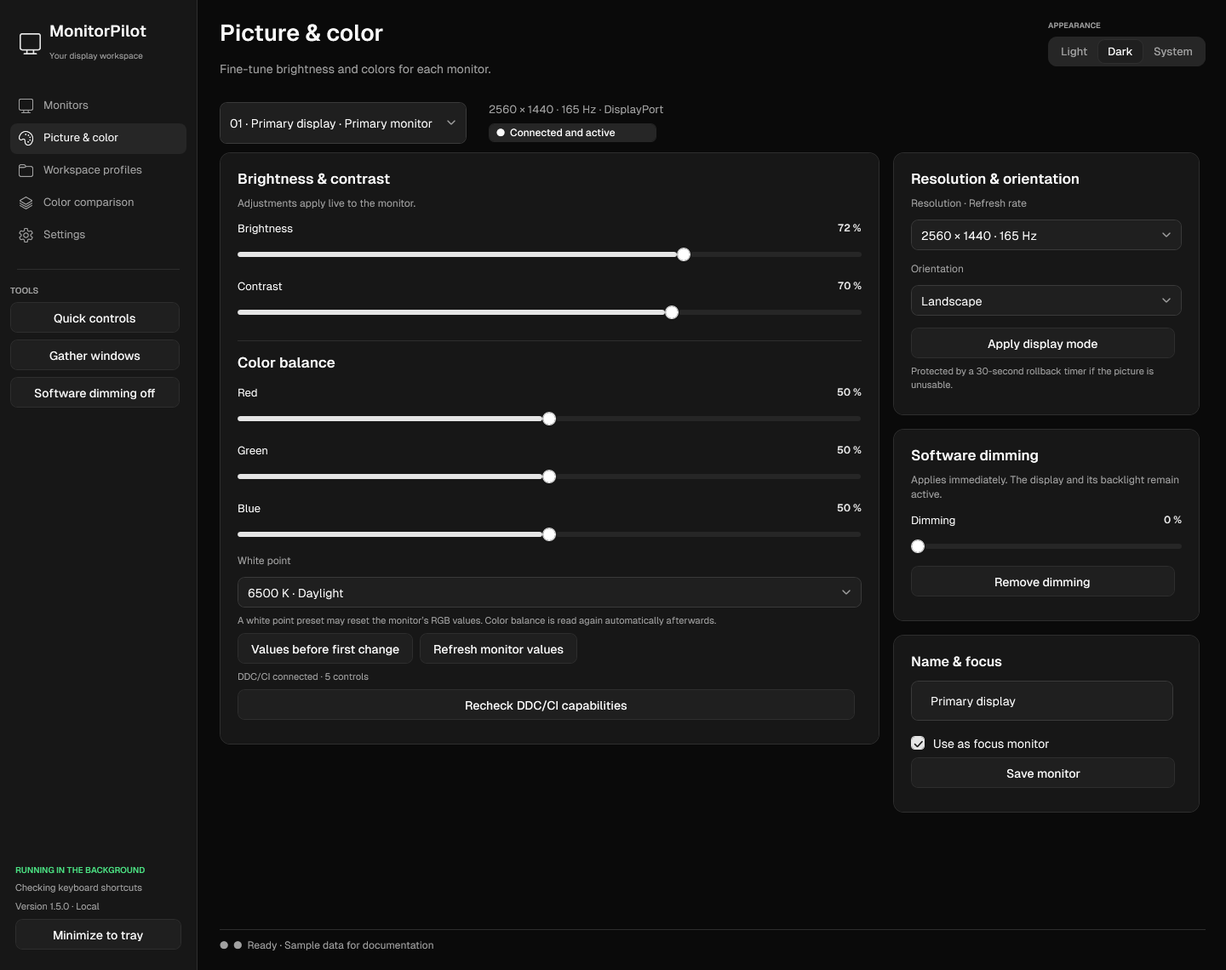
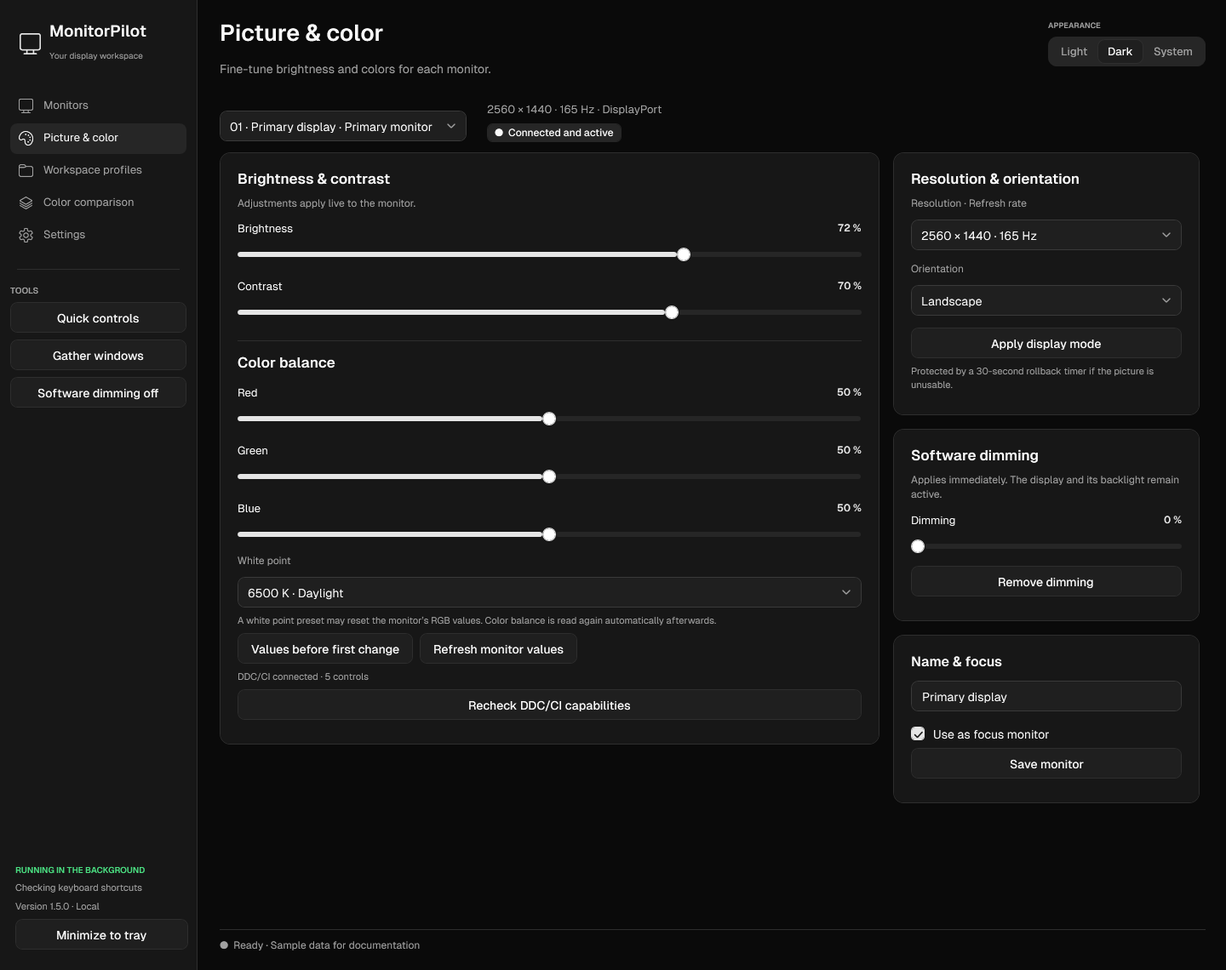
UI: Eingabefelder, Abstaende und Knopfzeilen ueberall bereinigt
- Eingabefelder nicht mehr abgeschnitten (doppeltes Padding entfernt), einheitlich 36 px hoch
- Abstand zwischen Knoepfen kommt aus der Zeile; gestreckte Knoepfe und Felder schliessen buendig ab
- Arbeitsprofile: Aktionen in einer Zeile, Entfernen als roter Ghost-Knopf
- Einstellungen: Hintergrundoptionen speichern sofort, Zeitplan-Zeilen ausgerichtet
- Schnellsteuerung: Wert am gemeinsamen Regler, Fusszeile bricht nicht mehr um
- Badges, Testbild-Knoepfe, Abgleich-starten-Knopf und Doku-Bilder aktualisiert

diff --git a/src/MonitorPilot/UI/Controls.xaml b/src/MonitorPilot/UI/Controls.xaml
@@ -3,7 +3,7 @@
   <Style x:Key="FocusRing" TargetType="Control"><Setter Property="Template"><Setter.Value><ControlTemplate><Border BorderBrush="{DynamicResource MP.Ring}" BorderThickness="2" CornerRadius="10" Margin="-3" Opacity="0.6"/></ControlTemplate></Setter.Value></Setter></Style>
   <Style TargetType="Button">
     <Setter Property="Background" Value="{DynamicResource MP.Input}"/><Setter Property="Foreground" Value="{DynamicResource MP.Text}"/><Setter Property="BorderBrush" Value="{DynamicResource MP.Border}"/><Setter Property="BorderThickness" Value="1"/>
-    <Setter Property="Padding" Value="16,7"/><Setter Property="Margin" Value="0,0,8,8"/><Setter Property="MinHeight" Value="36"/><Setter Property="FontSize" Value="14"/><Setter Property="FontWeight" Value="Medium"/><Setter Property="Cursor" Value="Hand"/><Setter Property="HorizontalContentAlignment" Value="Center"/><Setter Property="VerticalContentAlignment" Value="Center"/><Setter Property="FocusVisualStyle" Value="{StaticResource FocusRing}"/>
+    <Setter Property="Padding" Value="16,7"/><Setter Property="Margin" Value="0,0,0,8"/><Setter Property="MinHeight" Value="36"/><Setter Property="FontSize" Value="14"/><Setter Property="FontWeight" Value="Medium"/><Setter Property="Cursor" Value="Hand"/><Setter Property="HorizontalContentAlignment" Value="Center"/><Setter Property="VerticalContentAlignment" Value="Center"/><Setter Property="FocusVisualStyle" Value="{StaticResource FocusRing}"/>
     <Setter Property="Template"><Setter.Value><ControlTemplate TargetType="Button">
       <Grid>
         <Border x:Name="Chrome" CornerRadius="8" Background="{TemplateBinding Background}" BorderBrush="{TemplateBinding BorderBrush}" BorderThickness="{TemplateBinding BorderThickness}"/>
@@ -23,16 +23,19 @@
   </Style>
   <!-- shadcn sidebar menu button: ghost, accent background when hovered or active. -->
   <Style x:Key="NavButton" TargetType="Button" BasedOn="{StaticResource {x:Type Button}}"><Setter Property="Background" Value="Transparent"/><Setter Property="BorderThickness" Value="0"/><Setter Property="Foreground" Value="{DynamicResource MP.Text}"/><Setter Property="HorizontalContentAlignment" Value="Left"/><Setter Property="Padding" Value="10,8"/><Setter Property="MinHeight" Value="36"/><Setter Property="Margin" Value="0,0,0,2"/></Style>
+  <!-- shadcn "ghost" variant: no border, accent background on hover. Danger keeps destructive actions recognisable. -->
+  <Style x:Key="GhostButton" TargetType="Button" BasedOn="{StaticResource {x:Type Button}}"><Setter Property="Background" Value="Transparent"/><Setter Property="BorderThickness" Value="0"/></Style>
+  <Style x:Key="DangerButton" TargetType="Button" BasedOn="{StaticResource GhostButton}"><Setter Property="Foreground" Value="{DynamicResource MP.Danger}"/></Style>
   <Style TargetType="TextBox">
-    <Setter Property="Background" Value="{DynamicResource MP.Input}"/><Setter Property="Foreground" Value="{DynamicResource MP.Text}"/><Setter Property="CaretBrush" Value="{DynamicResource MP.Text}"/><Setter Property="SelectionBrush" Value="{DynamicResource MP.Ring}"/><Setter Property="BorderBrush" Value="{DynamicResource MP.Track}"/><Setter Property="BorderThickness" Value="1"/><Setter Property="Padding" Value="10,7"/><Setter Property="Margin" Value="0,4,10,10"/><Setter Property="MinHeight" Value="36"/><Setter Property="FontSize" Value="14"/>
-    <Setter Property="Template"><Setter.Value><ControlTemplate TargetType="TextBox"><Border x:Name="Chrome" Background="{TemplateBinding Background}" BorderBrush="{TemplateBinding BorderBrush}" BorderThickness="{TemplateBinding BorderThickness}" CornerRadius="8" Padding="{TemplateBinding Padding}"><ScrollViewer x:Name="PART_ContentHost"/></Border><ControlTemplate.Triggers><Trigger Property="IsKeyboardFocusWithin" Value="True"><Setter TargetName="Chrome" Property="BorderBrush" Value="{DynamicResource MP.Ring}"/></Trigger><Trigger Property="IsEnabled" Value="False"><Setter Property="Opacity" Value="0.5"/></Trigger></ControlTemplate.Triggers></ControlTemplate></Setter.Value></Setter>
+    <Setter Property="Background" Value="{DynamicResource MP.Input}"/><Setter Property="Foreground" Value="{DynamicResource MP.Text}"/><Setter Property="CaretBrush" Value="{DynamicResource MP.Text}"/><Setter Property="SelectionBrush" Value="{DynamicResource MP.Ring}"/><Setter Property="BorderBrush" Value="{DynamicResource MP.Track}"/><Setter Property="BorderThickness" Value="1"/><Setter Property="Padding" Value="10,0"/><Setter Property="Margin" Value="0,4,0,10"/><Setter Property="MinHeight" Value="36"/><Setter Property="FontSize" Value="14"/><Setter Property="VerticalContentAlignment" Value="Center"/>
+    <Setter Property="Template"><Setter.Value><ControlTemplate TargetType="TextBox"><Border x:Name="Chrome" Background="{TemplateBinding Background}" BorderBrush="{TemplateBinding BorderBrush}" BorderThickness="{TemplateBinding BorderThickness}" CornerRadius="8"><ScrollViewer x:Name="PART_ContentHost" VerticalAlignment="{TemplateBinding VerticalContentAlignment}" HorizontalScrollBarVisibility="Hidden" VerticalScrollBarVisibility="Hidden"/></Border><ControlTemplate.Triggers><Trigger Property="IsKeyboardFocusWithin" Value="True"><Setter TargetName="Chrome" Property="BorderBrush" Value="{DynamicResource MP.Ring}"/></Trigger><Trigger Property="IsEnabled" Value="False"><Setter Property="Opacity" Value="0.5"/></Trigger></ControlTemplate.Triggers></ControlTemplate></Setter.Value></Setter>
   </Style>
   <Style TargetType="ComboBoxItem">
     <Setter Property="Foreground" Value="{DynamicResource MP.Text}"/><Setter Property="Background" Value="Transparent"/><Setter Property="Padding" Value="8,6"/><Setter Property="FontSize" Value="14"/><Setter Property="HorizontalContentAlignment" Value="Stretch"/>
     <Setter Property="Template"><Setter.Value><ControlTemplate TargetType="ComboBoxItem"><Border x:Name="Item" Background="{TemplateBinding Background}" Padding="{TemplateBinding Padding}" CornerRadius="6" Margin="0,1"><DockPanel><TextBlock x:Name="Check" DockPanel.Dock="Right" Text="✓" Margin="10,0,0,0" Visibility="Hidden" Foreground="{DynamicResource MP.Text}"/><ContentPresenter TextElement.Foreground="{TemplateBinding Foreground}"/></DockPanel></Border><ControlTemplate.Triggers><Trigger Property="IsHighlighted" Value="True"><Setter TargetName="Item" Property="Background" Value="{DynamicResource MP.Hover}"/></Trigger><Trigger Property="IsSelected" Value="True"><Setter TargetName="Check" Property="Visibility" Value="Visible"/></Trigger><Trigger Property="IsEnabled" Value="False"><Setter Property="Opacity" Value="0.5"/></Trigger></ControlTemplate.Triggers></ControlTemplate></Setter.Value></Setter>
   </Style>
   <Style TargetType="ComboBox">
-    <Setter Property="Background" Value="{DynamicResource MP.Input}"/><Setter Property="Foreground" Value="{DynamicResource MP.Text}"/><Setter Property="BorderBrush" Value="{DynamicResource MP.Track}"/><Setter Property="FontSize" Value="14"/><Setter Property="Padding" Value="12,7"/><Setter Property="Margin" Value="0,4,10,10"/><Setter Property="MinHeight" Value="36"/><Setter Property="MaxDropDownHeight" Value="280"/><Setter Property="ScrollViewer.HorizontalScrollBarVisibility" Value="Disabled"/><Setter Property="ScrollViewer.VerticalScrollBarVisibility" Value="Auto"/><Setter Property="FocusVisualStyle" Value="{StaticResource FocusRing}"/>
+    <Setter Property="Background" Value="{DynamicResource MP.Input}"/><Setter Property="Foreground" Value="{DynamicResource MP.Text}"/><Setter Property="BorderBrush" Value="{DynamicResource MP.Track}"/><Setter Property="FontSize" Value="14"/><Setter Property="Padding" Value="12,7"/><Setter Property="Margin" Value="0,4,0,10"/><Setter Property="MinHeight" Value="36"/><Setter Property="MaxDropDownHeight" Value="280"/><Setter Property="ScrollViewer.HorizontalScrollBarVisibility" Value="Disabled"/><Setter Property="ScrollViewer.VerticalScrollBarVisibility" Value="Auto"/><Setter Property="FocusVisualStyle" Value="{StaticResource FocusRing}"/>
     <Setter Property="Template"><Setter.Value><ControlTemplate TargetType="ComboBox"><Grid>
       <ToggleButton Focusable="False" IsChecked="{Binding IsDropDownOpen, RelativeSource={RelativeSource TemplatedParent}, Mode=TwoWay}" ClickMode="Press"><ToggleButton.Template><ControlTemplate TargetType="ToggleButton"><Border x:Name="Frame" Background="{DynamicResource MP.Input}" BorderBrush="{DynamicResource MP.Track}" BorderThickness="1" CornerRadius="8"><Path Data="M 0,0 L 4,4 L 8,0" Stroke="{DynamicResource MP.Muted}" StrokeThickness="1.5" StrokeStartLineCap="Round" StrokeEndLineCap="Round" StrokeLineJoin="Round" Margin="0,0,12,0" HorizontalAlignment="Right" VerticalAlignment="Center"/></Border><ControlTemplate.Triggers><Trigger Property="IsChecked" Value="True"><Setter TargetName="Frame" Property="BorderBrush" Value="{DynamicResource MP.Ring}"/></Trigger></ControlTemplate.Triggers></ControlTemplate></ToggleButton.Template></ToggleButton>
       <ContentPresenter Content="{TemplateBinding SelectionBoxItem}" ContentTemplate="{TemplateBinding SelectionBoxItemTemplate}" ContentTemplateSelector="{TemplateBinding ItemTemplateSelector}" Margin="12,7,34,7" VerticalAlignment="Center" IsHitTestVisible="False" TextElement.Foreground="{TemplateBinding Foreground}"/>
@@ -56,6 +59,7 @@
   <Style TargetType="ScrollBar">
     <Setter Property="Width" Value="10"/><Setter Property="Background" Value="Transparent"/>
     <Setter Property="Template"><Setter.Value><ControlTemplate TargetType="ScrollBar"><Grid Background="Transparent"><Track x:Name="PART_Track" IsDirectionReversed="True" Orientation="{TemplateBinding Orientation}"><Track.DecreaseRepeatButton><RepeatButton Command="ScrollBar.PageUpCommand" Style="{StaticResource ScrollPageButton}"/></Track.DecreaseRepeatButton><Track.Thumb><Thumb><Thumb.Template><ControlTemplate TargetType="Thumb"><Border Background="{DynamicResource MP.Border}" CornerRadius="4" Margin="2,1" MinHeight="24"/></ControlTemplate></Thumb.Template></Thumb></Track.Thumb><Track.IncreaseRepeatButton><RepeatButton Command="ScrollBar.PageDownCommand" Style="{StaticResource ScrollPageButton}"/></Track.IncreaseRepeatButton></Track></Grid></ControlTemplate></Setter.Value></Setter>
+    <Style.Triggers><Trigger Property="Orientation" Value="Horizontal"><Setter Property="Width" Value="Auto"/><Setter Property="Height" Value="10"/></Trigger></Style.Triggers>
   </Style>
   <Style TargetType="ToolTip"><Setter Property="Background" Value="{DynamicResource MP.Accent}"/><Setter Property="Foreground" Value="{DynamicResource MP.AccentText}"/><Setter Property="BorderThickness" Value="0"/><Setter Property="Padding" Value="12,6"/><Setter Property="FontSize" Value="12"/>
     <Setter Property="Template"><Setter.Value><ControlTemplate TargetType="ToolTip"><Border Background="{TemplateBinding Background}" CornerRadius="6" Padding="{TemplateBinding Padding}"><ContentPresenter TextElement.Foreground="{TemplateBinding Foreground}"/></Border></ControlTemplate></Setter.Value></Setter>

diff --git a/src/MonitorPilot/Pages.cs b/src/MonitorPilot/Pages.cs
@@ -13,12 +13,12 @@ internal sealed partial class MainWindow
 {
     private UIElement ProfilesPage()
     {
-        var content=new StackPanel();var name=new TextBox{Text=L.T("Arbeiten"),Width=300};AutomationProperties.SetName(name,L.T("Profilname"));
+        var content=new StackPanel();var name=new TextBox{Text=L.T("Arbeiten"),Width=300,Margin=new Thickness(0,0,0,8)};AutomationProperties.SetName(name,L.T("Profilname"));
         content.Children.Add(Theme.Panel(Theme.Stack(Theme.Label(L.T("Aktuellen Arbeitsplatz sichern"),18,null,true),Theme.Label(L.T("Speichert Monitore, Anordnung, Auflösung, Hz, Farben, Dimmung und Fensterpositionen."),13,Theme.Muted),Theme.Row(name,ActionButton(L.T("Profil speichern"),()=>c.SaveProfile(name.Text),true),Theme.Button(L.T("Importieren …"),ImportProfile)))));
         foreach(var entry in c.Profiles.ToArray())
         {
-            var s=entry.Workspace;var row=new DockPanel();var actions=Theme.Row(ActionButton(L.T("Anwenden"),async()=>{await c.ApplyWorkspace(s);},true),Theme.Button(L.T("Exportieren"),()=>ExportProfile(s)),Theme.Button(L.T("Entfernen"),()=>{if(MessageBox.Show(this,L.F($"Profil „{s.Name}“ entfernen?"),L.T("Profil entfernen"),MessageBoxButton.YesNo,MessageBoxImage.Question)==MessageBoxResult.Yes)c.DeleteProfile(entry);}));actions.VerticalAlignment=VerticalAlignment.Center;actions.MaxWidth=320;DockPanel.SetDock(actions,Dock.Right);row.Children.Add(actions);
-            var description=Theme.Stack(Theme.Label(s.Name,17,null,true),Theme.Label(L.F($"{s.Topology.Identities.Count} Monitore · {s.Windows.Count} Fenster · {s.CapturedAt:dd.MM.yyyy HH:mm}"),12,Theme.Muted),Theme.Label(string.Join(" · ",s.Topology.Identities.Select(i=>i.Name)),11,Theme.Muted));description.Margin=new Thickness(0,0,20,0);row.Children.Add(description);content.Children.Add(Theme.Panel(row));
+            var s=entry.Workspace;var row=new DockPanel();var actions=Theme.Row(ActionButton(L.T("Anwenden"),async()=>{await c.ApplyWorkspace(s);},true),Theme.Button(L.T("Exportieren"),()=>ExportProfile(s)),Theme.Button(L.T("Entfernen"),()=>{if(MessageBox.Show(this,L.F($"Profil „{s.Name}“ entfernen?"),L.T("Profil entfernen"),MessageBoxButton.YesNo,MessageBoxImage.Question)==MessageBoxResult.Yes)c.DeleteProfile(entry);},style:"DangerButton"));actions.VerticalAlignment=VerticalAlignment.Center;DockPanel.SetDock(actions,Dock.Right);row.Children.Add(actions);
+            var description=Theme.Stack(Theme.Label(s.Name,16,null,true),Theme.Label(L.F($"{s.Topology.Identities.Count} Monitore · {s.Windows.Count} Fenster · {s.CapturedAt:dd.MM.yyyy HH:mm}"),12,Theme.Muted),Theme.Label(string.Join(" · ",s.Topology.Identities.Select(i=>i.Name)),11,Theme.Muted));description.Margin=new Thickness(0,0,20,0);description.VerticalAlignment=VerticalAlignment.Center;row.Children.Add(description);content.Children.Add(Theme.Panel(row,new Thickness(0,0,0,12)));
         }
         content.Children.Add(Theme.Label(L.T("Fensterpositionen lassen sich wiederherstellen, solange dieselben Programme noch geöffnet sind. Fehlende Monitoranschlüsse werden vor dem Anwenden geprüft."),12,Theme.Muted));return content;
     }
@@ -28,6 +28,7 @@ internal sealed partial class MainWindow
         if(photoMatch is {IsLoaded:true}){photoMatch.Activate();return;}
         photoMatch=new PhotoMatchWindow(c){Owner=this};photoMatch.Closed+=(_,_)=>photoMatch=null;photoMatch.Show();
     }
+    private static Button Left(Button button){button.HorizontalAlignment=HorizontalAlignment.Left;return button;}
     private UIElement MatchState()
     {
         if(c.Settings.Match is not {} match)return new Border();
@@ -38,7 +39,7 @@ internal sealed partial class MainWindow
     private UIElement CalibrationPage()
     {
         var content=new StackPanel();
-        content.Children.Add(Theme.Panel(Theme.Stack(Theme.Label(L.T("Per Foto angleichen"),18,null,true),Theme.Label(L.T("Dein Handy misst: Ein Foto zeigt alle Bildschirme mit demselben Testbild, MonitorPilot gleicht Helligkeit und Farbe Schritt für Schritt an einen Referenzmonitor an. Nach jeder Runde ein neues Foto, bis „Fertig“ erscheint."),13,Theme.Muted),MatchState(),Theme.Button(L.T("Abgleich starten"),OpenPhotoMatch,true))));var patterns=new WrapPanel();foreach(string pattern in new[]{"Graustufen","Farbfelder","Weiß","Schwarz","Rot","Grün","Blau"})patterns.Children.Add(Theme.Button(L.T(pattern),()=>c.Overlays.Patterns(c.Monitors,pattern)));
+        content.Children.Add(Theme.Panel(Theme.Stack(Theme.Label(L.T("Per Foto angleichen"),18,null,true),Theme.Label(L.T("Dein Handy misst: Ein Foto zeigt alle Bildschirme mit demselben Testbild, MonitorPilot gleicht Helligkeit und Farbe Schritt für Schritt an einen Referenzmonitor an. Nach jeder Runde ein neues Foto, bis „Fertig“ erscheint."),13,Theme.Muted),MatchState(),Left(Theme.Button(L.T("Abgleich starten"),OpenPhotoMatch,true)))));var patterns=Theme.Row(new[]{"Graustufen","Farbfelder","Weiß","Schwarz","Rot","Grün","Blau"}.Select(pattern=>(UIElement)Theme.Button(L.T(pattern),()=>c.Overlays.Patterns(c.Monitors,pattern))).ToArray());
         content.Children.Add(Theme.Panel(Theme.Stack(Theme.Label(L.T("Dasselbe Testbild auf allen Monitoren"),18,null,true),Theme.Label(L.T("Vergleiche Helligkeit, Graustufen und Farbstiche direkt nebeneinander."),13,Theme.Muted),patterns,Theme.Label(L.T("Esc schließt alle Testbilder. Sie enden automatisch nach 5 Minuten."),12,Theme.Muted),Theme.Row(Theme.Button(L.T("Testbilder schließen"),c.Overlays.ClosePatterns),Theme.Button(L.T("Softwaredimmung entfernen"),()=>{c.Overlays.Clear();c.Report(L.T("Softwaredimmung entfernt."));})))));
         var steps=new[]{("01",L.T("Helligkeit angleichen"),L.T("Weiß anzeigen und die Hardware-Helligkeit pro Monitor angleichen. Unterschiedliche Bildmodi und dynamischen Kontrast im Monitormenü ausschalten.")),("02",L.T("Farbstiche reduzieren"),L.T("Graustufen vergleichen. Unter „Bild & Farbe“ Rot, Grün und Blau schrittweise abstimmen. Möglichst aus deinem normalen Blickwinkel vergleichen.")),("03",L.T("Arbeitsprofil sichern"),L.T("Farbflächen und echte Fotos prüfen. Danach die abgestimmten Werte mit deiner Anordnung als Arbeitsprofil speichern.")),("04",L.T("Farben exakt vermessen"),L.T("Für verbindliche Farben ein Colorimeter und passende ICC-Profile verwenden. Ein visueller Vergleich ersetzt keine Messung."))};
         for(int i=0;i<steps.Length;i+=2){Border Card(int n){var s=steps[n];return Theme.Panel(Theme.Stack(Theme.Label(s.Item1,12,Theme.Accent,true),Theme.Label(s.Item2,16,null,true),Theme.Label(s.Item3,13,Theme.Muted)));}content.Children.Add(Theme.Columns(Card(i),Card(i+1),0));}
@@ -48,23 +49,29 @@ internal sealed partial class MainWindow
     {
         var content=new StackPanel();content.Children.Add(LanguageSelector());content.Children.Add(Theme.Panel(Theme.Stack(Theme.Label(L.T("App-Design"),17,null,true),Theme.Label(L.T("Oben rechts kannst du jederzeit Hell, Dunkel oder System wählen. Die Auswahl wird sofort gespeichert und gilt auch für Listen, Regler und Dialoge."),13,Theme.Muted))));
         var startup=new CheckBox{Content=L.T("Mit Windows starten (im Tray)"),IsChecked=c.Settings.StartWithWindows};var minimize=new CheckBox{Content=L.T("Beim Minimieren im Tray weiterlaufen"),IsChecked=c.Settings.MinimizeToTray};var gather=new CheckBox{Content=L.T("Fenster im Fokusmodus einsammeln"),IsChecked=c.Settings.MoveWindowsInFocus};
-        var background=Theme.Panel(Theme.Stack(Theme.Label(L.T("Hintergrundbetrieb"),17,null,true),Theme.Label(L.T("Schließen blendet das Fenster aus. Tray-Menü und globale Tastenkürzel bleiben erreichbar."),12,Theme.Muted),startup,minimize,gather,Theme.Button(L.T("Hintergrundoptionen speichern"),()=>
+        void SaveBackground()
         {
             try{using var key=Registry.CurrentUser.CreateSubKey("Software\\Microsoft\\Windows\\CurrentVersion\\Run");if(startup.IsChecked==true)key.SetValue("MonitorPilot","\""+Environment.ProcessPath+"\" --tray");else key.DeleteValue("MonitorPilot",false);c.Settings.StartWithWindows=startup.IsChecked==true;c.Settings.MinimizeToTray=minimize.IsChecked==true;c.Settings.MoveWindowsInFocus=gather.IsChecked==true;c.SaveSettings();c.Report(L.T("Hintergrundeinstellungen gespeichert."));}catch(Exception ex){c.Report(ex.Message,true);}
-        })));
+        }
+        foreach(var box in new[]{startup,minimize,gather})box.Click+=(_,_)=>SaveBackground();
+        var background=Theme.Panel(Theme.Stack(Theme.Label(L.T("Hintergrundbetrieb"),17,null,true),Theme.Label(L.T("Schließen blendet das Fenster aus. Tray-Menü und globale Tastenkürzel bleiben erreichbar. Änderungen werden sofort gespeichert."),12,Theme.Muted),startup,minimize,gather));
         var schedule=new CheckBox{Content=L.T("Helligkeit automatisch wechseln"),IsChecked=c.Settings.BrightnessSchedule};
-        TextBox Field(string text,string label,int width){var field=new TextBox{Text=text,Width=width};AutomationProperties.SetName(field,label);return field;}
-        var dayTime=Field(c.Settings.DayTime,L.T("Tag beginnt um"),76);var nightTime=Field(c.Settings.NightTime,L.T("Abend beginnt um"),76);var dayValue=Field(c.Settings.DayBrightness.ToString(),L.T("Helligkeit am Tag"),60);var nightValue=Field(c.Settings.NightBrightness.ToString(),L.T("Helligkeit am Abend"),60);
-        UIElement TimeRow(string label,TextBox time,TextBox value){var title=Theme.Label(label,12);title.Width=62;title.Margin=new Thickness(0,13,0,0);var percent=Theme.Label("%",12,Theme.Muted);percent.Margin=new Thickness(0,13,0,0);return Theme.Row(title,time,value,percent);}
-        var timing=Theme.Panel(Theme.Stack(Theme.Label(L.T("Helligkeit nach Uhrzeit"),17,null,true),Theme.Label(L.T("Lokale Uhrzeit. Die App muss dafür im Hintergrund laufen."),12,Theme.Muted),schedule,TimeRow(L.T("Tag ab"),dayTime,dayValue),TimeRow(L.T("Abend ab"),nightTime,nightValue),Theme.Button(L.T("Zeitplan speichern"),()=>
+        TextBox Field(string text,string label,int width){var field=new TextBox{Text=text,Width=width,Margin=new Thickness(0,0,0,0),TextAlignment=TextAlignment.Center};AutomationProperties.SetName(field,label);return field;}
+        var dayTime=Field(c.Settings.DayTime,L.T("Tag beginnt um"),88);var nightTime=Field(c.Settings.NightTime,L.T("Abend beginnt um"),88);var dayValue=Field(c.Settings.DayBrightness.ToString(),L.T("Helligkeit am Tag"),72);var nightValue=Field(c.Settings.NightBrightness.ToString(),L.T("Helligkeit am Abend"),72);
+        UIElement TimeRow(string label,TextBox time,TextBox value)
+        {
+            var title=Theme.Label(label,13);title.Width=80;title.Margin=new Thickness(0);time.Margin=new Thickness(0,0,16,0);var percent=Theme.Label("%",13,Theme.Muted);percent.Margin=new Thickness(0);
+            var row=Theme.Row(title,time,value,percent);row.Margin=new Thickness(0,0,0,8);return row;
+        }
+        var timing=Theme.Panel(Theme.Stack(Theme.Label(L.T("Helligkeit nach Uhrzeit"),17,null,true),Theme.Label(L.T("Lokale Uhrzeit. Die App muss dafür im Hintergrund laufen."),12,Theme.Muted),schedule,TimeRow(L.T("Tag ab"),dayTime,dayValue),TimeRow(L.T("Abend ab"),nightTime,nightValue),Left(Theme.Button(L.T("Zeitplan speichern"),()=>
         {
             if(!TimeSpan.TryParseExact(dayTime.Text,"hh\\:mm",CultureInfo.InvariantCulture,out var day)||!TimeSpan.TryParseExact(nightTime.Text,"hh\\:mm",CultureInfo.InvariantCulture,out var night)||day==night||!int.TryParse(dayValue.Text,out int dv)||!int.TryParse(nightValue.Text,out int nv)||dv<0||dv>100||nv<0||nv>100){c.Report(L.T("Zwei verschiedene Uhrzeiten im Format HH:mm und Helligkeit von 0 bis 100 eingeben."),true);return;}
             c.Settings.BrightnessSchedule=schedule.IsChecked==true;c.Settings.DayTime=dayTime.Text;c.Settings.NightTime=nightTime.Text;c.Settings.DayBrightness=dv;c.Settings.NightBrightness=nv;c.SaveSettings();lastScheduleNight=null;c.Report(L.T("Zeitplan gespeichert. Prüfung erfolgt spätestens in 30 Sekunden."));
-        })));
+        }))));
         content.Children.Add(Theme.Columns(background,timing,0));var keys=Theme.Stack(Theme.Label(L.T("Globale Tastenkürzel"),17,null,true),Theme.Label(L.T("Funktionieren auch im Hintergrund. Belegte Kürzel werden beim Speichern gemeldet."),12,Theme.Muted));if(!string.IsNullOrEmpty(hotkeyProblem))keys.Children.Add(Theme.Label(hotkeyProblem,12,Theme.Danger));
         foreach(var key in c.Settings.Hotkeys)
         {
-            var row=new Grid{Margin=new Thickness(0,5,0,5)};row.ColumnDefinitions.Add(new(){Width=new GridLength(1,GridUnitType.Star)});row.ColumnDefinitions.Add(new(){Width=new GridLength(245)});row.ColumnDefinitions.Add(new(){Width=GridLength.Auto});var title=Theme.Label(L.T(key.Label),13);title.VerticalAlignment=VerticalAlignment.Center;row.Children.Add(title);var label=Theme.Label(HotkeyService.Format(key),12,Theme.Accent,true);label.VerticalAlignment=VerticalAlignment.Center;Grid.SetColumn(label,1);row.Children.Add(label);var edit=Theme.Button(L.T("Ändern"),()=>EditHotkey(key));edit.Margin=new Thickness(8,0,0,0);edit.Padding=new Thickness(12,6,12,6);edit.MinHeight=30;AutomationProperties.SetName(edit,L.T("Tastenkürzel ändern: ")+L.T(key.Label));Grid.SetColumn(edit,2);row.Children.Add(edit);keys.Children.Add(row);
+            var row=new Grid{Margin=new Thickness(0,5,0,5)};row.ColumnDefinitions.Add(new(){Width=new GridLength(1,GridUnitType.Star)});row.ColumnDefinitions.Add(new(){Width=new GridLength(245)});row.ColumnDefinitions.Add(new(){Width=GridLength.Auto});var title=Theme.Label(L.T(key.Label),13);title.Margin=new Thickness(0);title.VerticalAlignment=VerticalAlignment.Center;row.Children.Add(title);var label=Theme.Label(HotkeyService.Format(key),12,Theme.Accent,true);label.Margin=new Thickness(0);label.VerticalAlignment=VerticalAlignment.Center;Grid.SetColumn(label,1);row.Children.Add(label);var edit=Theme.Button(L.T("Ändern"),()=>EditHotkey(key));edit.Margin=new Thickness(8,0,0,0);edit.Padding=new Thickness(12,4,12,4);edit.MinHeight=32;AutomationProperties.SetName(edit,L.T("Tastenkürzel ändern: ")+L.T(key.Label));Grid.SetColumn(edit,2);row.Children.Add(edit);keys.Children.Add(row);
         }
         content.Children.Add(Theme.Panel(keys));content.Children.Add(Theme.Panel(Theme.Stack(Theme.Label(L.T("Daten & Diagnose"),17,null,true),Theme.Label(L.T("Einstellungen, Profile und Wiederherstellung werden lokal gespeichert."),12,Theme.Muted),Theme.Row(Theme.Button(L.T("Datenordner"),()=>Open(Store.Root)),Theme.Button(L.T("Aktivitätsprotokoll"),()=>Open(Store.FilePath("activity.log"))),Theme.Button(L.T("Diagnose exportieren …"),ExportDiagnostics)),Theme.Row(Theme.Button(L.T("Alle Bildschirme in Standby"),()=>_=c.Run(async()=>{c.Report(L.T("Standby in 3 Sekunden. Maus oder Tastatur weckt die Bildschirme wieder."));await Task.Delay(3000);Native.SendMessage(new WindowInteropHelper(this).Handle,0x112,new IntPtr(0xF170),new IntPtr(2));})),Theme.Button(L.T("MonitorPilot beenden"),ExitApp)),Theme.Label(L.T("Standby behält die Desktop-Anordnung bei. Der Fokusmodus deaktiviert zusätzliche Grafikausgänge."),11,Theme.Muted))));return content;
     }

diff --git a/src/MonitorPilot/Theme.cs b/src/MonitorPilot/Theme.cs
@@ -60,13 +60,23 @@ internal static class Theme
     };
     public static readonly FontFamily Font=new(new Uri("pack://application:,,,/MonitorPilot;component/"),"./Fonts/#Geist, Segoe UI Variable Text, Segoe UI");
     public static TextBlock Label(string text,double size=14,Brush? color=null,bool bold=false)=>new(){Text=text,FontSize=size,Foreground=color??Text,FontWeight=bold?FontWeights.SemiBold:FontWeights.Normal,TextWrapping=TextWrapping.Wrap,Margin=new Thickness(0,0,0,6),LineHeight=size*1.45};
-    public static Button Button(string text,Action click,bool primary=false)
+    public static Button Button(string text,Action click,bool primary=false,string? style=null)
     {
-        var button=new Button{Content=text};if(primary)button.Style=(Style)System.Windows.Application.Current.FindResource("PrimaryButton");button.Click+=(_,_)=>click();System.Windows.Automation.AutomationProperties.SetName(button,text);return button;
+        var button=new Button{Content=text};style??=primary?"PrimaryButton":null;if(style!=null)button.Style=(Style)System.Windows.Application.Current.FindResource(style);button.Click+=(_,_)=>click();System.Windows.Automation.AutomationProperties.SetName(button,text);return button;
     }
     public static Border Panel(UIElement content,Thickness? margin=null)=>new(){Background=Card,BorderBrush=Border,BorderThickness=new Thickness(1),CornerRadius=new CornerRadius(12),Padding=new Thickness(20),Margin=margin??new Thickness(0,0,0,16),Child=content};
     public static StackPanel Stack(params UIElement[] children){var panel=new StackPanel();foreach(var child in children)panel.Children.Add(child);return panel;}
-    public static WrapPanel Row(params UIElement[] children){var panel=new WrapPanel();foreach(var child in children)panel.Children.Add(child);return panel;}
+    // Controls carry no right margin of their own, so stretched ones line up; rows add the 8 px gap and centre vertically.
+    public static WrapPanel Row(params UIElement[] children)
+    {
+        var panel=new WrapPanel();
+        foreach(var child in children)
+        {
+            if(child is FrameworkElement element){if(element.Margin.Right==0&&child!=children[^1])element.Margin=new Thickness(element.Margin.Left,element.Margin.Top,8,element.Margin.Bottom);element.VerticalAlignment=VerticalAlignment.Center;}
+            panel.Children.Add(child);
+        }
+        return panel;
+    }
     public static Grid Columns(UIElement left,UIElement right,double rightWidth=300)
         =>new AdaptiveColumns(left,right,rightWidth);
     private sealed class AdaptiveColumns : Grid
@@ -102,7 +112,7 @@ internal static class Theme
         window.MinWidth=Math.Min(860,window.Width);window.MinHeight=Math.Min(560,window.Height);
     }
     // shadcn Badge: "secondary" for highlighted facts, "outline" otherwise.
-    public static Border Badge(string text,bool accent=false)=>new(){Background=accent?Soft:Brushes.Transparent,BorderBrush=accent?Soft:Border,BorderThickness=new Thickness(1),CornerRadius=new CornerRadius(6),Padding=new Thickness(8,2,8,3),Margin=new Thickness(0,0,8,0),VerticalAlignment=VerticalAlignment.Center,Child=new TextBlock{Text=text,FontSize=12,Foreground=Text,FontWeight=FontWeights.Medium}};
+    public static Border Badge(string text,bool accent=false)=>new(){Background=accent?Soft:Brushes.Transparent,BorderBrush=accent?Soft:Border,BorderThickness=new Thickness(1),CornerRadius=new CornerRadius(6),Padding=new Thickness(8,2,8,3),Margin=new Thickness(0,0,8,0),VerticalAlignment=VerticalAlignment.Center,HorizontalAlignment=HorizontalAlignment.Left,Child=new TextBlock{Text=text,FontSize=12,Foreground=Text,FontWeight=FontWeights.Medium}};
     public static TextBlock Icon(string glyph,double size=18)=>new(){Text=glyph,FontFamily=new FontFamily("Segoe Fluent Icons, Segoe MDL2 Assets"),FontSize=size,VerticalAlignment=VerticalAlignment.Center,Foreground=Muted};
     public static void Decorate(Window window)
     {

diff --git a/src/MonitorPilot/TrayQuickWindow.cs b/src/MonitorPilot/TrayQuickWindow.cs
@@ -38,10 +38,10 @@ internal sealed class TrayQuickWindow : Window
     {
         rebuilding=true;body.Children.Clear();brightness.Clear();var monitorList=c.Monitors.Where(m=>m.Active).ToList();
         var focus=Theme.Button(monitorList.Count==1?L.T("Arbeitsplatz zurück"):L.T("Nur Fokusmonitor"),()=>RunAndClose(c.Focus),true);var restore=Theme.Button(L.T("Wiederherstellen"),()=>RunAndClose(c.Restore));restore.IsEnabled=c.CanRestore;body.Children.Add(Theme.Row(focus,restore));
-        body.Children.Add(Theme.Label(L.T("HELLIGKEIT"),10,Theme.Muted,true));
+        var section=Theme.Label(L.T("HELLIGKEIT"),10,Theme.Muted,true);section.Margin=new Thickness(0,8,0,6);body.Children.Add(section);
         double Average()=>c.SharedBrightness();
         var master=new Slider{Minimum=0,Maximum=100,Value=Average(),IsSnapToTickEnabled=true,TickFrequency=1,SmallChange=1,LargeChange=5,IsEnabled=monitorList.Any(m=>m.Hardware.Brightness!=null)};AutomationProperties.SetName(master,L.T("Alle Monitore: Helligkeit"));
-        var masterLabel=Theme.Label(c.MatchReference!=null?L.T("Alle gemeinsam · angeglichen"):L.T("Alle gemeinsam"),12,Theme.Accent,true);body.Children.Add(Theme.Stack(masterLabel,master,new Border{Height=1,Background=Theme.Border,Margin=new Thickness(0,10,0,10)}));
+        var masterLabel=Theme.Label(c.MatchReference!=null?L.F($"Alle gemeinsam · angeglichen · {master.Value:0} %"):L.F($"Alle gemeinsam · {master.Value:0} %"),12,Theme.Accent,true);body.Children.Add(Theme.Stack(masterLabel,master,new Border{Height=1,Background=Theme.Border,Margin=new Thickness(0,10,0,10)}));
         var updates=new List<Action>();
         foreach(var m in monitorList)
         {
@@ -62,7 +62,10 @@ internal sealed class TrayQuickWindow : Window
         {
             body.Children.Add(new Border{Height=1,Background=Theme.Border,Margin=new Thickness(0,8,0,12)});var profiles=new ComboBox{ItemsSource=c.Profiles,SelectedIndex=0,Margin=new Thickness(0,3,0,8)};AutomationProperties.SetName(profiles,L.T("Arbeitsprofil auswählen"));body.Children.Add(Theme.Label(L.T("Arbeitsprofil"),12,null,true));body.Children.Add(profiles);body.Children.Add(Theme.Button(L.T("Profil anwenden"),()=>{if(profiles.SelectedItem is ProfileEntry p)RunAndClose(async()=>{await c.ApplyWorkspace(p.Workspace);});}));
         }
-        body.Children.Add(Theme.Row(Theme.Button(L.T("Bild & Farbe"),()=>{Close();openColors();}),Theme.Button(L.T("Tray-Menü …"),()=>openMenu()),Theme.Button(L.T("Einstellungen"),()=>{Close();openSettings();})));body.Children.Add(Theme.Label(L.T("Rechtsklick auf das Tray-Symbol: weitere Einstellungen."),10,Theme.Muted));rebuilding=false;UpdateStatus();
+        // Three equal columns never wrap, however narrow the tray panel gets.
+        var links=new System.Windows.Controls.Primitives.UniformGrid{Columns=3,Margin=new Thickness(0,4,0,0)};
+        foreach(var link in new[]{Theme.Button(L.T("Bild & Farbe"),()=>{Close();openColors();}),Theme.Button(L.T("Tray-Menü …"),()=>openMenu()),Theme.Button(L.T("Einstellungen"),()=>{Close();openSettings();})}){link.Padding=new Thickness(6,7,6,7);link.Margin=new Thickness(0,0,6,8);links.Children.Add(link);}
+        body.Children.Add(links);body.Children.Add(Theme.Label(L.T("Rechtsklick auf das Tray-Symbol: weitere Einstellungen."),10,Theme.Muted));rebuilding=false;UpdateStatus();
         updateHardware=()=>{rebuilding=true;try{foreach(var update in updates)update();master.IsEnabled=monitorList.Any(m=>m.Hardware.Brightness!=null);master.Value=Average();masterLabel.Text=c.MatchReference!=null?L.F($"Alle gemeinsam · angeglichen · {master.Value:0} %"):L.F($"Alle gemeinsam · {master.Value:0} %");}finally{rebuilding=false;}};
     }
     private void RunAndClose(Func<Task> operation){Close();_=c.Run(operation);}

diff --git a/src/MonitorPilot/DemoImages.cs b/src/MonitorPilot/DemoImages.cs
@@ -33,7 +33,7 @@ internal static class DemoImages
             foreach(var m in monitors)DisplayService.ModesFor(m.DeviceName,()=>new(){new(){Width=(uint)m.Width,Height=(uint)m.Height,Frequency=(uint)m.Hz},new(){Width=(uint)m.Width,Height=(uint)m.Height,Frequency=60}});
             typeof(AppController).GetProperty(nameof(AppController.Monitors))!.SetValue(controller,monitors);
             controller.Profiles.Add(new(){Workspace=new(){Name="Studio · alle fünf Displays",Topology=new(){Identities=monitors.Select(m=>new PathIdentity{Key=m.Key,Name=m.Name}).ToList()},CapturedAt=new DateTimeOffset(2026,10,11,10,0,0,TimeSpan.Zero)}});
-            controller.Report(L.T("●  Bereit · Beispieldaten für die Dokumentation"));
+            controller.Report(L.T("Bereit · Beispieldaten für die Dokumentation"));
             var flags=BindingFlags.Instance|BindingFlags.NonPublic;
             void Page(string page,string mode,string file)
             {
@@ -46,7 +46,7 @@ internal static class DemoImages
             Render((FrameworkElement)quick.Content,430,830,Path.Combine(directory,"tray-controls.png"));quick.Close();
             typeof(MainWindow).GetMethod("SetLanguage",flags)!.Invoke(window,new object[]{"en"});
             var englishNames=new[]{"Primary display","Studio left","Studio right","Portrait","Reference"};for(int i=0;i<monitors.Count;i++)monitors[i].Name=englishNames[i];
-            controller.Profiles[0].Workspace.Name="Studio · All five displays";controller.Report(L.T("●  Bereit · Beispieldaten für die Dokumentation"));
+            controller.Profiles[0].Workspace.Name="Studio · All five displays";controller.Report(L.T("Bereit · Beispieldaten für die Dokumentation"));
             Page("monitors","Dark","overview-dark-en.png");Page("monitors","Light","overview-light-en.png");Page("colors","Dark","color-controls-en.png");Page("settings","Light","language-settings-en.png");
             Theme.SetMode("Light");quick=new TrayQuickWindow(controller,()=>{},()=>{},()=>{});Render((FrameworkElement)quick.Content,430,830,Path.Combine(directory,"tray-controls-en.png"));quick.Close();
             return 0;

diff --git a/src/MonitorPilot/PhotoMatchWindow.cs b/src/MonitorPilot/PhotoMatchWindow.cs
@@ -74,7 +74,7 @@ internal sealed class PhotoMatchWindow : Window
         var left=new DockPanel();DockPanel.SetDock(prompt,Dock.Top);left.Children.Add(prompt);left.Children.Add(new Border{Background=Theme.Map,BorderBrush=Theme.Border,BorderThickness=new Thickness(1),CornerRadius=new CornerRadius(12),Padding=new Thickness(10),Child=stage});
         root.Children.Add(left);
         var urls=server.Running?string.Join(Environment.NewLine,server.Urls):L.T("Upload-Seite konnte nicht starten. Foto per Datei oder Zwischenablage laden.");
-        var urlBox=new TextBox{Text=urls,IsReadOnly=true,TextWrapping=TextWrapping.Wrap,FontSize=13,Margin=new Thickness(0,4,0,6)};
+        var urlBox=new TextBox{Text=urls,IsReadOnly=true,TextWrapping=TextWrapping.Wrap,FontSize=13,Padding=new Thickness(10,8,10,8),Margin=new Thickness(0,4,0,10)};
         var start=Theme.Button(L.T("Start: Testbild zeigen"),ShowPatches,true);start.HorizontalAlignment=HorizontalAlignment.Stretch;start.MinHeight=44;start.Margin=new Thickness(0,4,0,10);
         var more=Theme.Stack(
             Theme.Label(L.T("Referenzmonitor"),12,null,true),reference,hintRow,colors,autoApply,
